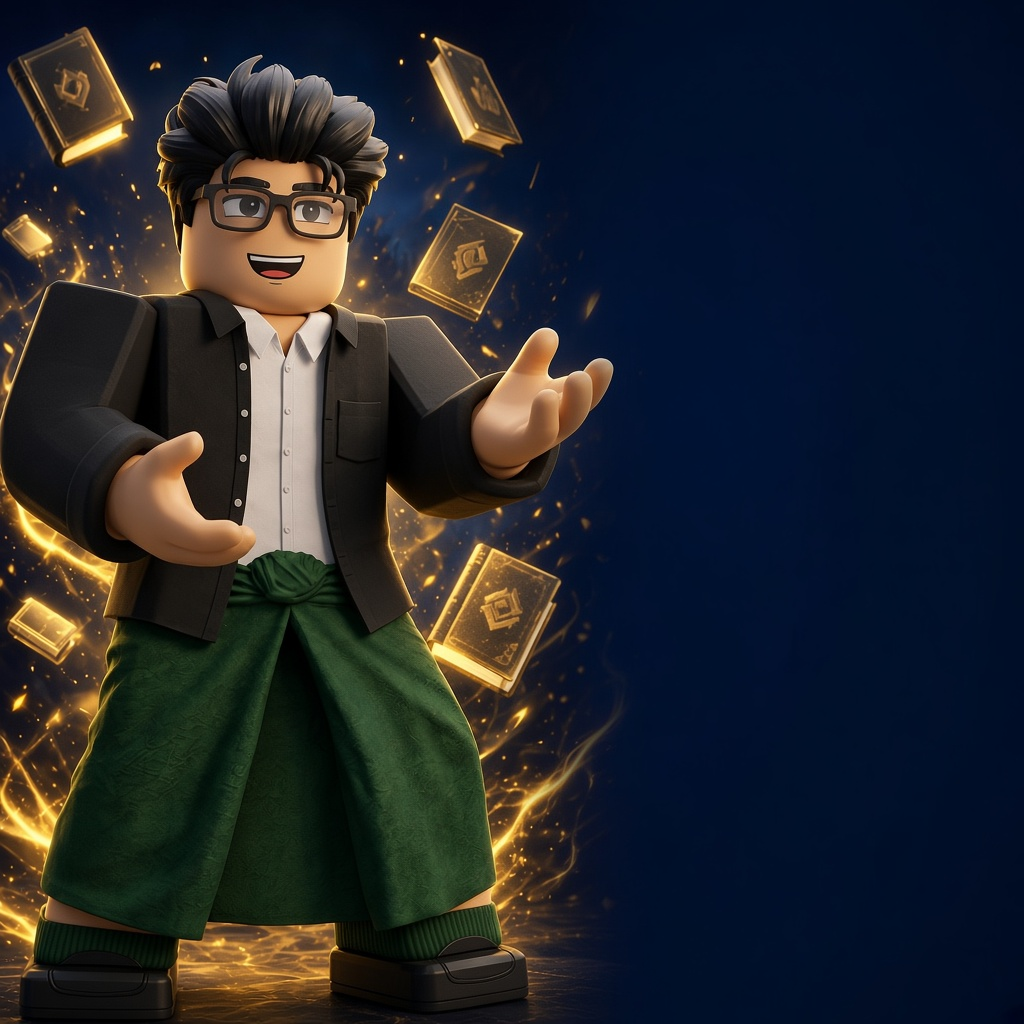
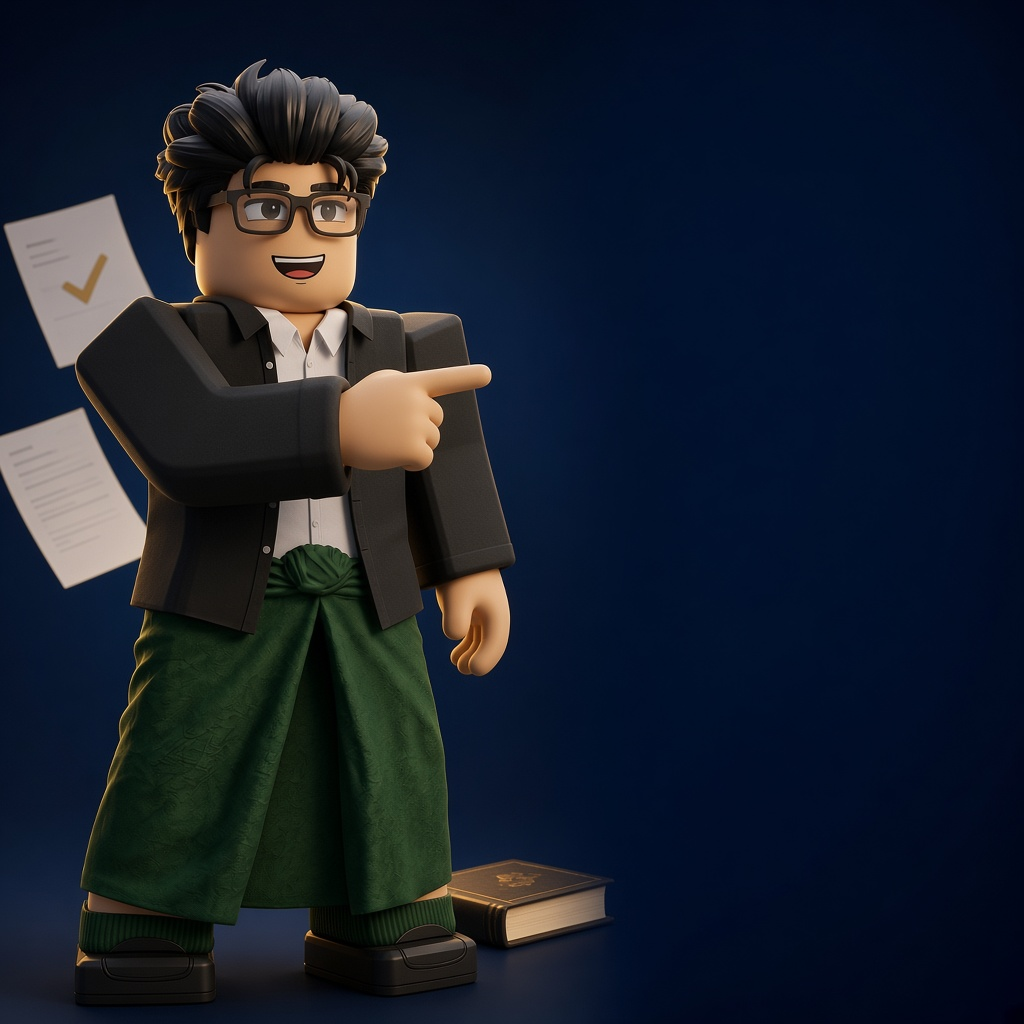
Redesign the price poster around ONE PACK and 13-month value.
Character points at the plans. 13 months is Best Value at about 2,654 Ks
a month, with a clear Buy CTA.

diff --git a/ads/reed-price-poster.html b/ads/reed-price-poster.html
@@ -4,152 +4,211 @@
   <meta charset="utf-8">
   <title>REED price poster</title>
   <style>
-    html, body { margin: 0; background: #070b14; }
+    html, body { margin: 0; background: #0B0F19; }
     .art {
       width: 1080px;
       height: 1080px;
       position: relative;
       overflow: hidden;
-      background: #070b14 url("./reed-ad-character-bg.png") left center / cover no-repeat;
+      background: #0B0F19 url("./reed-ad-character-bg.png") left 42% / cover no-repeat;
       font-family: Inter, "Noto Sans", Arial, sans-serif;
+      color: #fff;
     }
     .scrim {
       position: absolute;
       inset: 0;
-      background: linear-gradient(90deg, rgba(7,11,20,0) 38%, rgba(7,11,20,0.35) 52%, rgba(7,11,20,0.82) 68%, rgba(7,11,20,0.92) 100%);
-    }
-    .copy {
-      position: absolute;
-      top: 56px;
-      right: 48px;
-      width: 500px;
-      z-index: 2;
-      text-align: right;
+      background:
+        linear-gradient(90deg, rgba(11,15,25,0.08) 0%, rgba(11,15,25,0.12) 40%, rgba(11,15,25,0.72) 58%, rgba(11,15,25,0.94) 72%);
     }
     .brand {
-      display: inline-flex;
+      position: absolute;
+      top: 40px;
+      left: 40px;
+      z-index: 3;
+      display: flex;
       align-items: center;
       gap: 10px;
-      margin-bottom: 18px;
     }
     .mark {
-      width: 48px; height: 48px; border-radius: 12px;
+      width: 44px; height: 44px; border-radius: 11px;
       background: #F0B90B; color: #0B0F19;
-      font-weight: 800; font-size: 24px;
+      font-weight: 800; font-size: 22px;
       display: flex; align-items: center; justify-content: center;
     }
     .brand b {
-      color: #fff;
-      font-size: 28px;
+      font-size: 22px;
       letter-spacing: 0.18em;
-      text-shadow: 0 3px 0 #000, 0 8px 18px rgba(0,0,0,.55);
+      font-weight: 800;
+    }
+    .copy {
+      position: absolute;
+      top: 36px;
+      right: 48px;
+      width: 470px;
+      z-index: 2;
     }
     .kicker {
+      margin: 0 0 10px;
       color: #F0B90B;
+      font-size: 15px;
       font-weight: 800;
-      letter-spacing: 0.14em;
-      font-size: 20px;
+      letter-spacing: 0.22em;
       text-transform: uppercase;
-      text-shadow: 0 2px 0 #000;
-      margin-bottom: 8px;
     }
-    .title {
-      margin: 0 0 6px;
-      font-size: 54px;
-      line-height: 0.9;
+    .all {
+      margin: 0;
+      font-size: 26px;
+      font-weight: 800;
+      letter-spacing: 0.18em;
+      color: #E2E8F0;
+      text-transform: uppercase;
+    }
+    .hook {
+      margin: 2px 0 10px;
+      font-size: 78px;
+      line-height: 0.88;
       font-weight: 900;
-      color: #fff;
-      text-transform: uppercase;
-      letter-spacing: -0.03em;
-      text-shadow:
-        0 3px 0 #0B0F19,
-        0 8px 0 #7a5a00,
-        0 16px 28px rgba(0,0,0,.55);
-    }
-    .title em {
-      display: block;
-      font-style: normal;
-      font-size: 86px;
+      letter-spacing: -0.045em;
       color: #F0B90B;
-      -webkit-text-stroke: 6px #0B0F19;
-      paint-order: stroke fill;
-      text-shadow: 0 10px 0 #8a6400, 0 18px 30px rgba(0,0,0,.5);
+      text-transform: uppercase;
     }
-    .stack { margin-top: 22px; display: flex; flex-direction: column; gap: 12px; align-items: stretch; }
+    .value {
+      margin: 0 0 16px;
+      color: #94A3B8;
+      font-size: 16px;
+      font-weight: 600;
+    }
+    .stack { display: flex; flex-direction: column; gap: 8px; }
     .row {
-      display: flex;
+      display: grid;
+      grid-template-columns: 1fr auto;
       align-items: center;
-      justify-content: space-between;
-      gap: 12px;
-      background: linear-gradient(90deg, #162235, #0B0F19);
-      border: 3px solid #F0B90B;
+      background: #162235;
+      border: 1px solid #334155;
       border-radius: 14px;
-      padding: 12px 18px 12px 20px;
-      box-shadow: 0 8px 0 #6b5200, 0 16px 24px rgba(0,0,0,.4);
-      clip-path: polygon(18px 0, 100% 0, calc(100% - 18px) 100%, 0 100%);
+      padding: 11px 16px;
     }
     .row .term {
-      color: #fff;
-      font-weight: 800;
-      font-size: 26px;
-      text-shadow: 0 2px 0 #000;
+      color: #94A3B8;
+      font-weight: 700;
+      font-size: 18px;
     }
     .row .amt {
-      color: #F0B90B;
-      font-weight: 900;
-      font-size: 34px;
-      letter-spacing: -0.02em;
-      text-shadow: 0 3px 0 #000;
-    }
-    .row.best {
-      background: linear-gradient(90deg, #F0B90B, #FCD535);
-      border-color: #fff;
-      box-shadow: 0 8px 0 #8a6400, 0 16px 24px rgba(0,0,0,.45);
-    }
-    .row.best .term, .row.best .amt { color: #0B0F19; text-shadow: none; }
-    .row.best .amt { font-size: 38px; }
-    .ai {
-      margin-top: 16px;
-      color: #FCD535;
+      color: #E2E8F0;
       font-weight: 800;
       font-size: 22px;
-      text-shadow: 0 3px 0 #000;
+      letter-spacing: -0.02em;
+      font-variant-numeric: tabular-nums;
+    }
+    .best {
+      position: relative;
+      margin-bottom: 4px;
+      padding: 18px 18px 16px;
+      border: 1.5px solid #F0B90B;
+      background: linear-gradient(180deg, rgba(240,185,11,0.16) 0%, #162235 70%);
+      border-radius: 18px;
+    }
+    .badge {
+      display: inline-block;
+      background: #F0B90B;
+      color: #0B0F19;
+      font-size: 11px;
+      font-weight: 800;
+      letter-spacing: 0.14em;
+      text-transform: uppercase;
+      border-radius: 999px;
+      padding: 4px 10px;
+      margin-bottom: 8px;
+    }
+    .best-top {
+      display: flex;
+      align-items: baseline;
+      justify-content: space-between;
+      gap: 10px;
+    }
+    .best .term {
+      color: #FCD535;
+      font-size: 22px;
+      font-weight: 800;
+    }
+    .best .amt {
+      color: #F0B90B;
+      font-size: 36px;
+      font-weight: 900;
+      letter-spacing: -0.03em;
+    }
+    .per {
+      margin: 4px 0 0;
+      color: #94A3B8;
+      font-size: 14px;
+      font-weight: 600;
+      text-align: right;
+    }
+    .cta {
+      margin-top: 20px;
+      background: #F0B90B;
+      color: #0B0F19;
+      border-radius: 16px;
+      padding: 16px 18px 15px;
+      text-align: center;
+    }
+    .cta .ask {
+      font-size: 12px;
+      font-weight: 800;
+      letter-spacing: 0.16em;
+      text-transform: uppercase;
+      opacity: 0.8;
+      margin-bottom: 4px;
+    }
+    .cta .buy {
+      font-size: 24px;
+      font-weight: 900;
+      letter-spacing: -0.02em;
     }
     .foot {
       position: absolute;
-      left: 36px; right: 36px; bottom: 28px;
-      z-index: 2;
-      display: flex;
-      justify-content: space-between;
-      gap: 12px;
-      color: #fff;
-      font-weight: 800;
-      font-size: 18px;
-      text-shadow: 0 3px 8px #000;
+      left: 40px;
+      bottom: 28px;
+      z-index: 3;
+      color: #64748B;
+      font-size: 13px;
+      font-weight: 600;
+      line-height: 1.55;
+      text-shadow: 0 2px 10px #0B0F19;
     }
-    .foot span { text-align: center; flex: 1; }
-    .foot small { display: block; color: #F0B90B; font-size: 16px; margin-top: 4px; }
+    .foot b { color: #94A3B8; font-weight: 700; }
   </style>
 </head>
 <body>
   <div class="art">
     <div class="scrim"></div>
+    <div class="brand"><div class="mark">R</div><b>REED</b></div>
     <div class="copy">
-      <div class="brand"><div class="mark">R</div><b>REED</b></div>
-      <div class="kicker">Grade 10 · 11 · 12</div>
-      <h1 class="title">All subjects<br><em>ONE PACK</em></h1>
+      <p class="kicker">Grade 10 · 11 · 12</p>
+      <p class="all">All subjects</p>
+      <h1 class="hook">One pack</h1>
+      <p class="value">Weekly timetable made by AI included</p>
       <div class="stack">
+        <div class="best">
+          <span class="badge">Best value</span>
+          <div class="best-top">
+            <span class="term">13 months</span>
+            <span class="amt">34,500 Ks</span>
+          </div>
+          <div class="per">≈ 2,654 Ks / month</div>
+        </div>
         <div class="row"><span class="term">1 month</span><span class="amt">9,500 Ks</span></div>
         <div class="row"><span class="term">3 months</span><span class="amt">19,500 Ks</span></div>
         <div class="row"><span class="term">6 months</span><span class="amt">29,500 Ks</span></div>
-        <div class="row best"><span class="term">13 months</span><span class="amt">34,500 Ks</span></div>
       </div>
-      <div class="ai">Weekly timetable made by AI</div>
+      <div class="cta">
+        <div class="ask">Ready to start?</div>
+        <div class="buy">Buy: @minaphayarkot</div>
+      </div>
     </div>
     <div class="foot">
-      <span>Bot<small>@reededucation_bot</small></span>
-      <span>Buy<small>@minaphayarkot</small></span>
-      <span>Channel<small>@REED_education</small></span>
+      Bot <b>@reededucation_bot</b><br>
+      Channel <b>@REED_education</b>
     </div>
   </div>
 </body>
